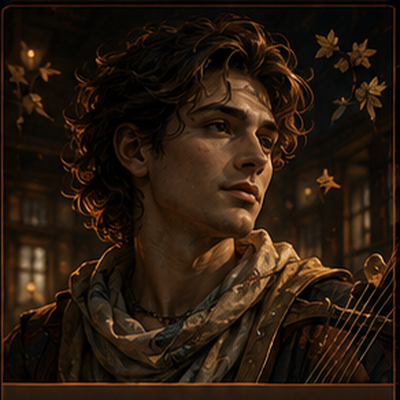
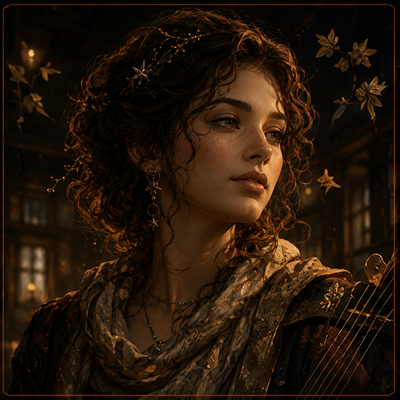
change Speaker Pictures

diff --git a/backend/src/main/java/com/example/ttslab/audiobooks/workflow/SpeakerVoice.java b/backend/src/main/java/com/example/ttslab/audiobooks/workflow/SpeakerVoice.java
@@ -5,7 +5,7 @@ public enum SpeakerVoice {
             "Zephyr",
             "Bright",
             "Bright, airy, youthful, and optimistic. Works well for fresh, energetic narration, uplifting audiobook passages, friendly introductions, and scenes with a light emotional tone.",
-            Gender.MALE
+            Gender.FEMALE
     ),
     PUCK(
             "Puck",
@@ -47,7 +47,7 @@ public enum SpeakerVoice {
             "Aoede",
             "Breezy",
             "Smooth, artistic, conversational, and relaxed. Suitable for storytelling, poetic narration, reflective audiobook passages, creative essays, and warm long-form listening.",
-            Gender.MALE
+            Gender.FEMALE
     ),
     CALLIRRHOE(
             "Callirrhoe",
@@ -137,7 +137,7 @@ public enum SpeakerVoice {
             "Gacrux",
             "Mature",
             "Experienced, calm, serious, and trustworthy. Works well for documentaries, historical narration, older characters, reflective nonfiction, and scenes with life experience.",
-            Gender.MALE
+            Gender.FEMALE
     ),
     PULCHERRIMA(
             "Pulcherrima",
